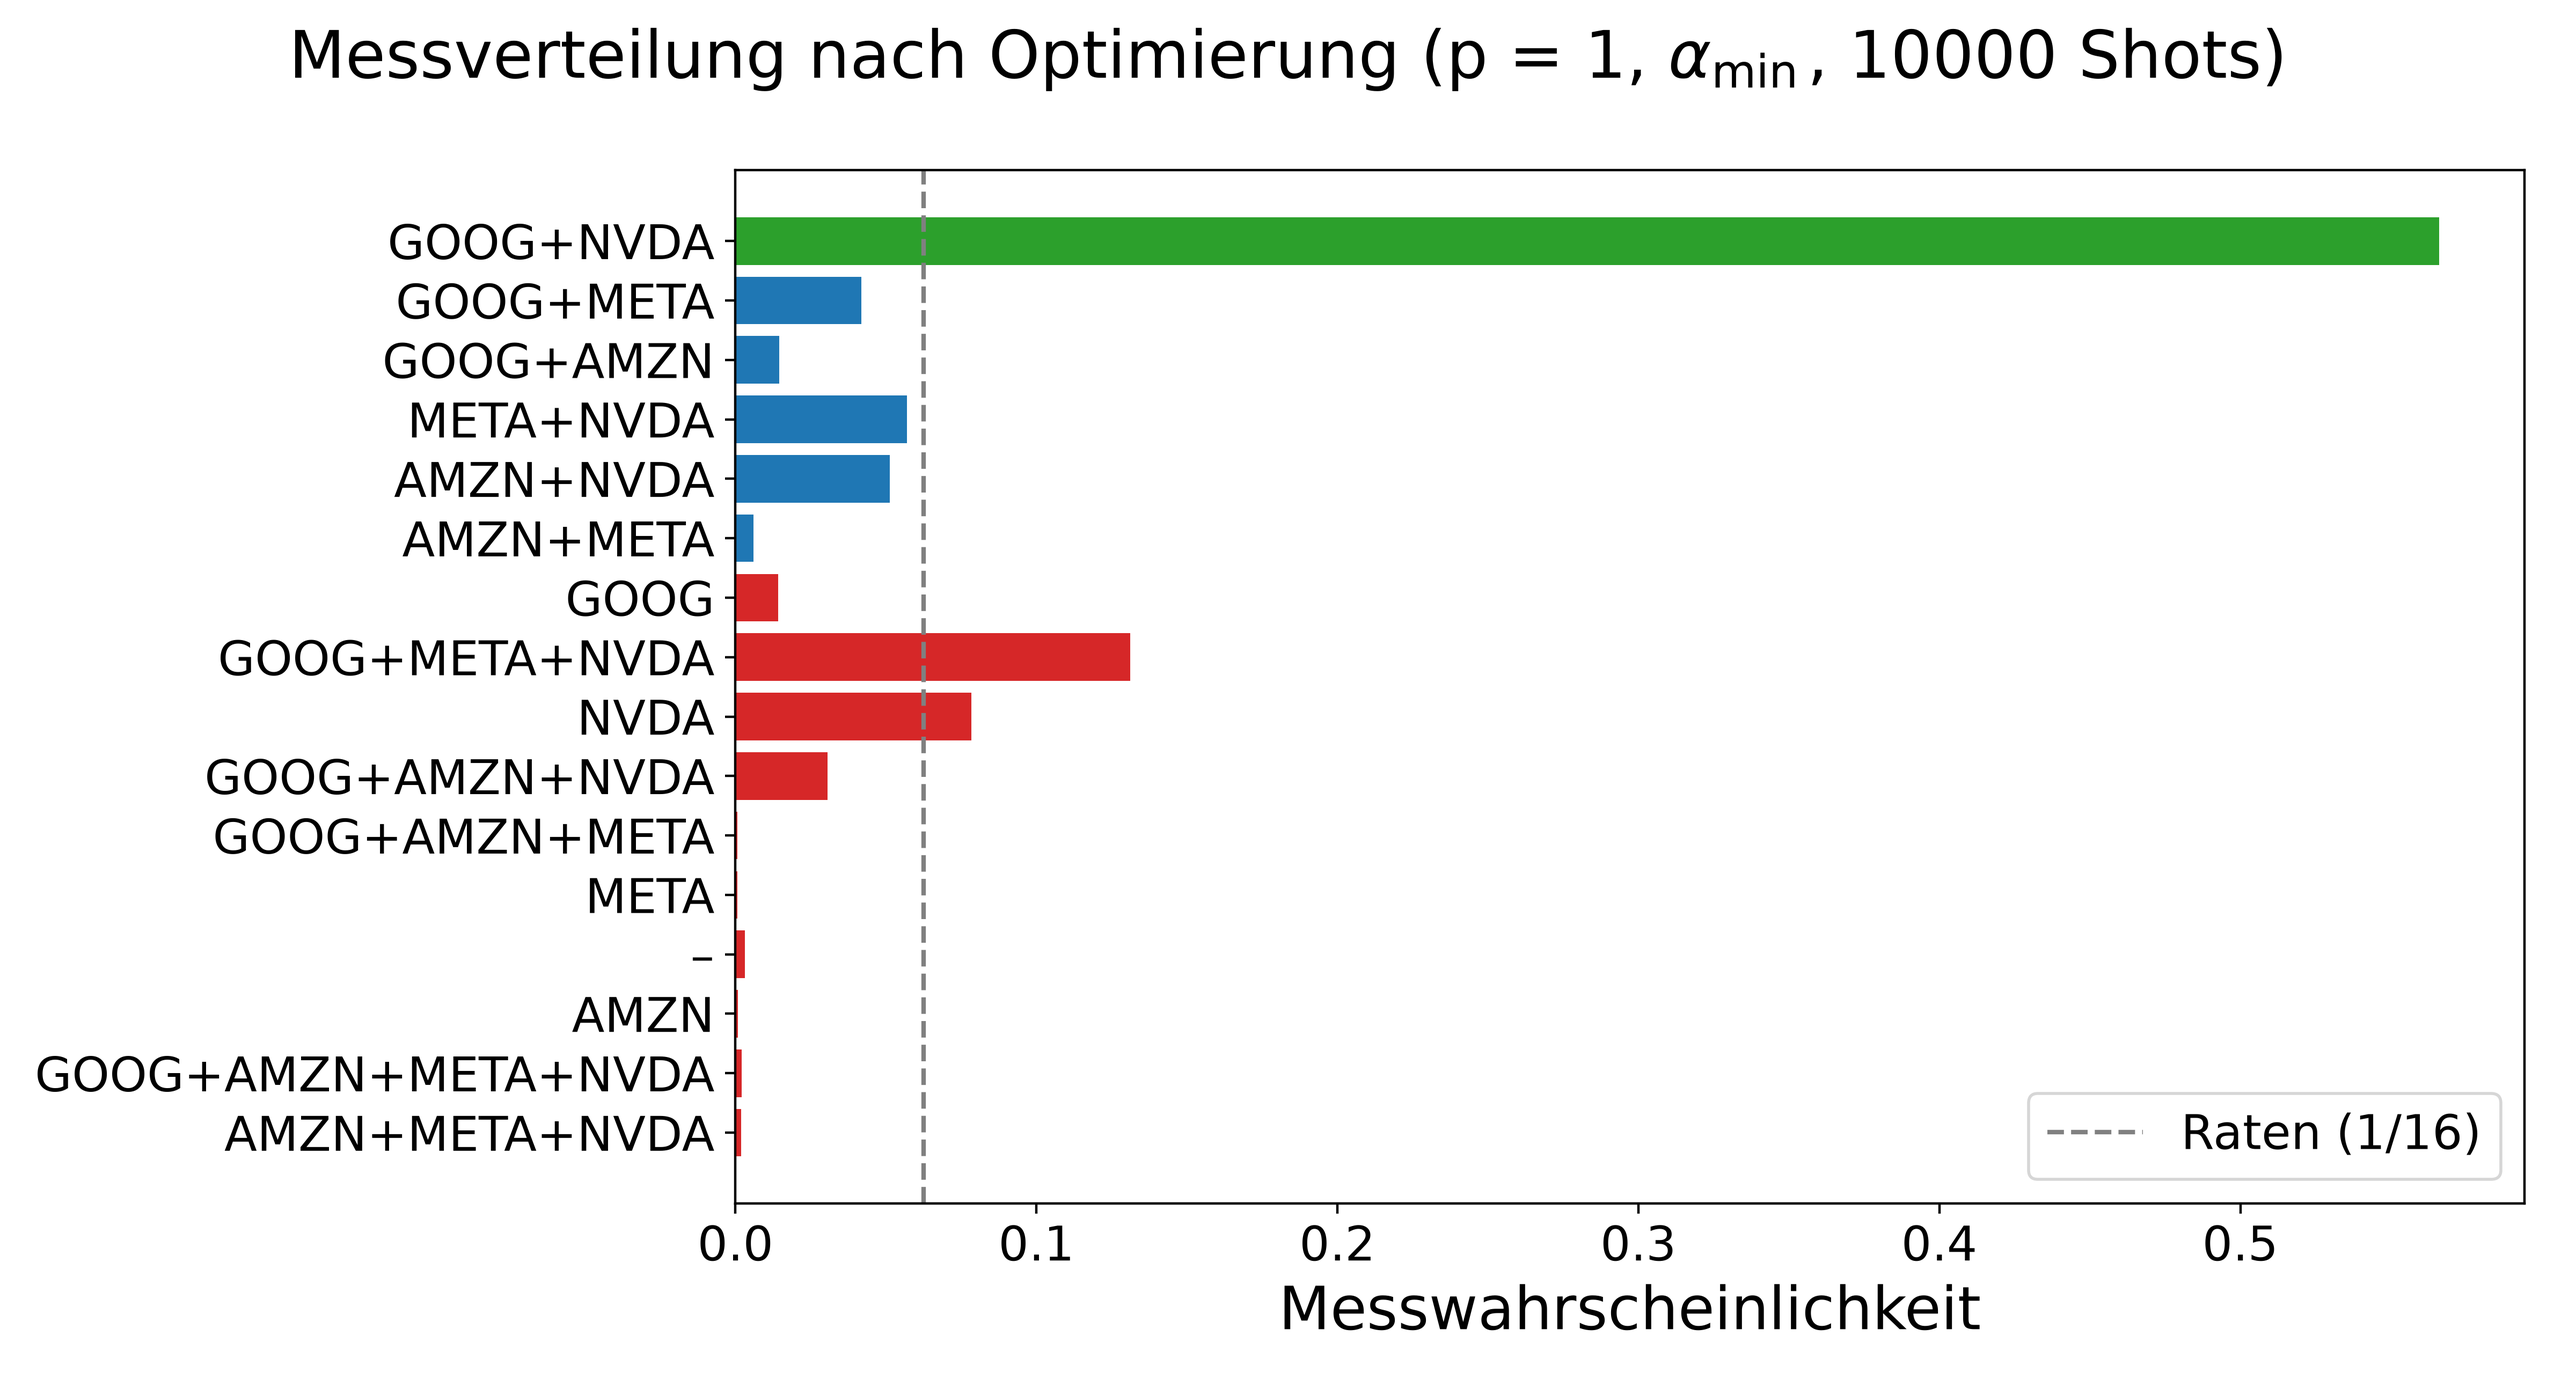
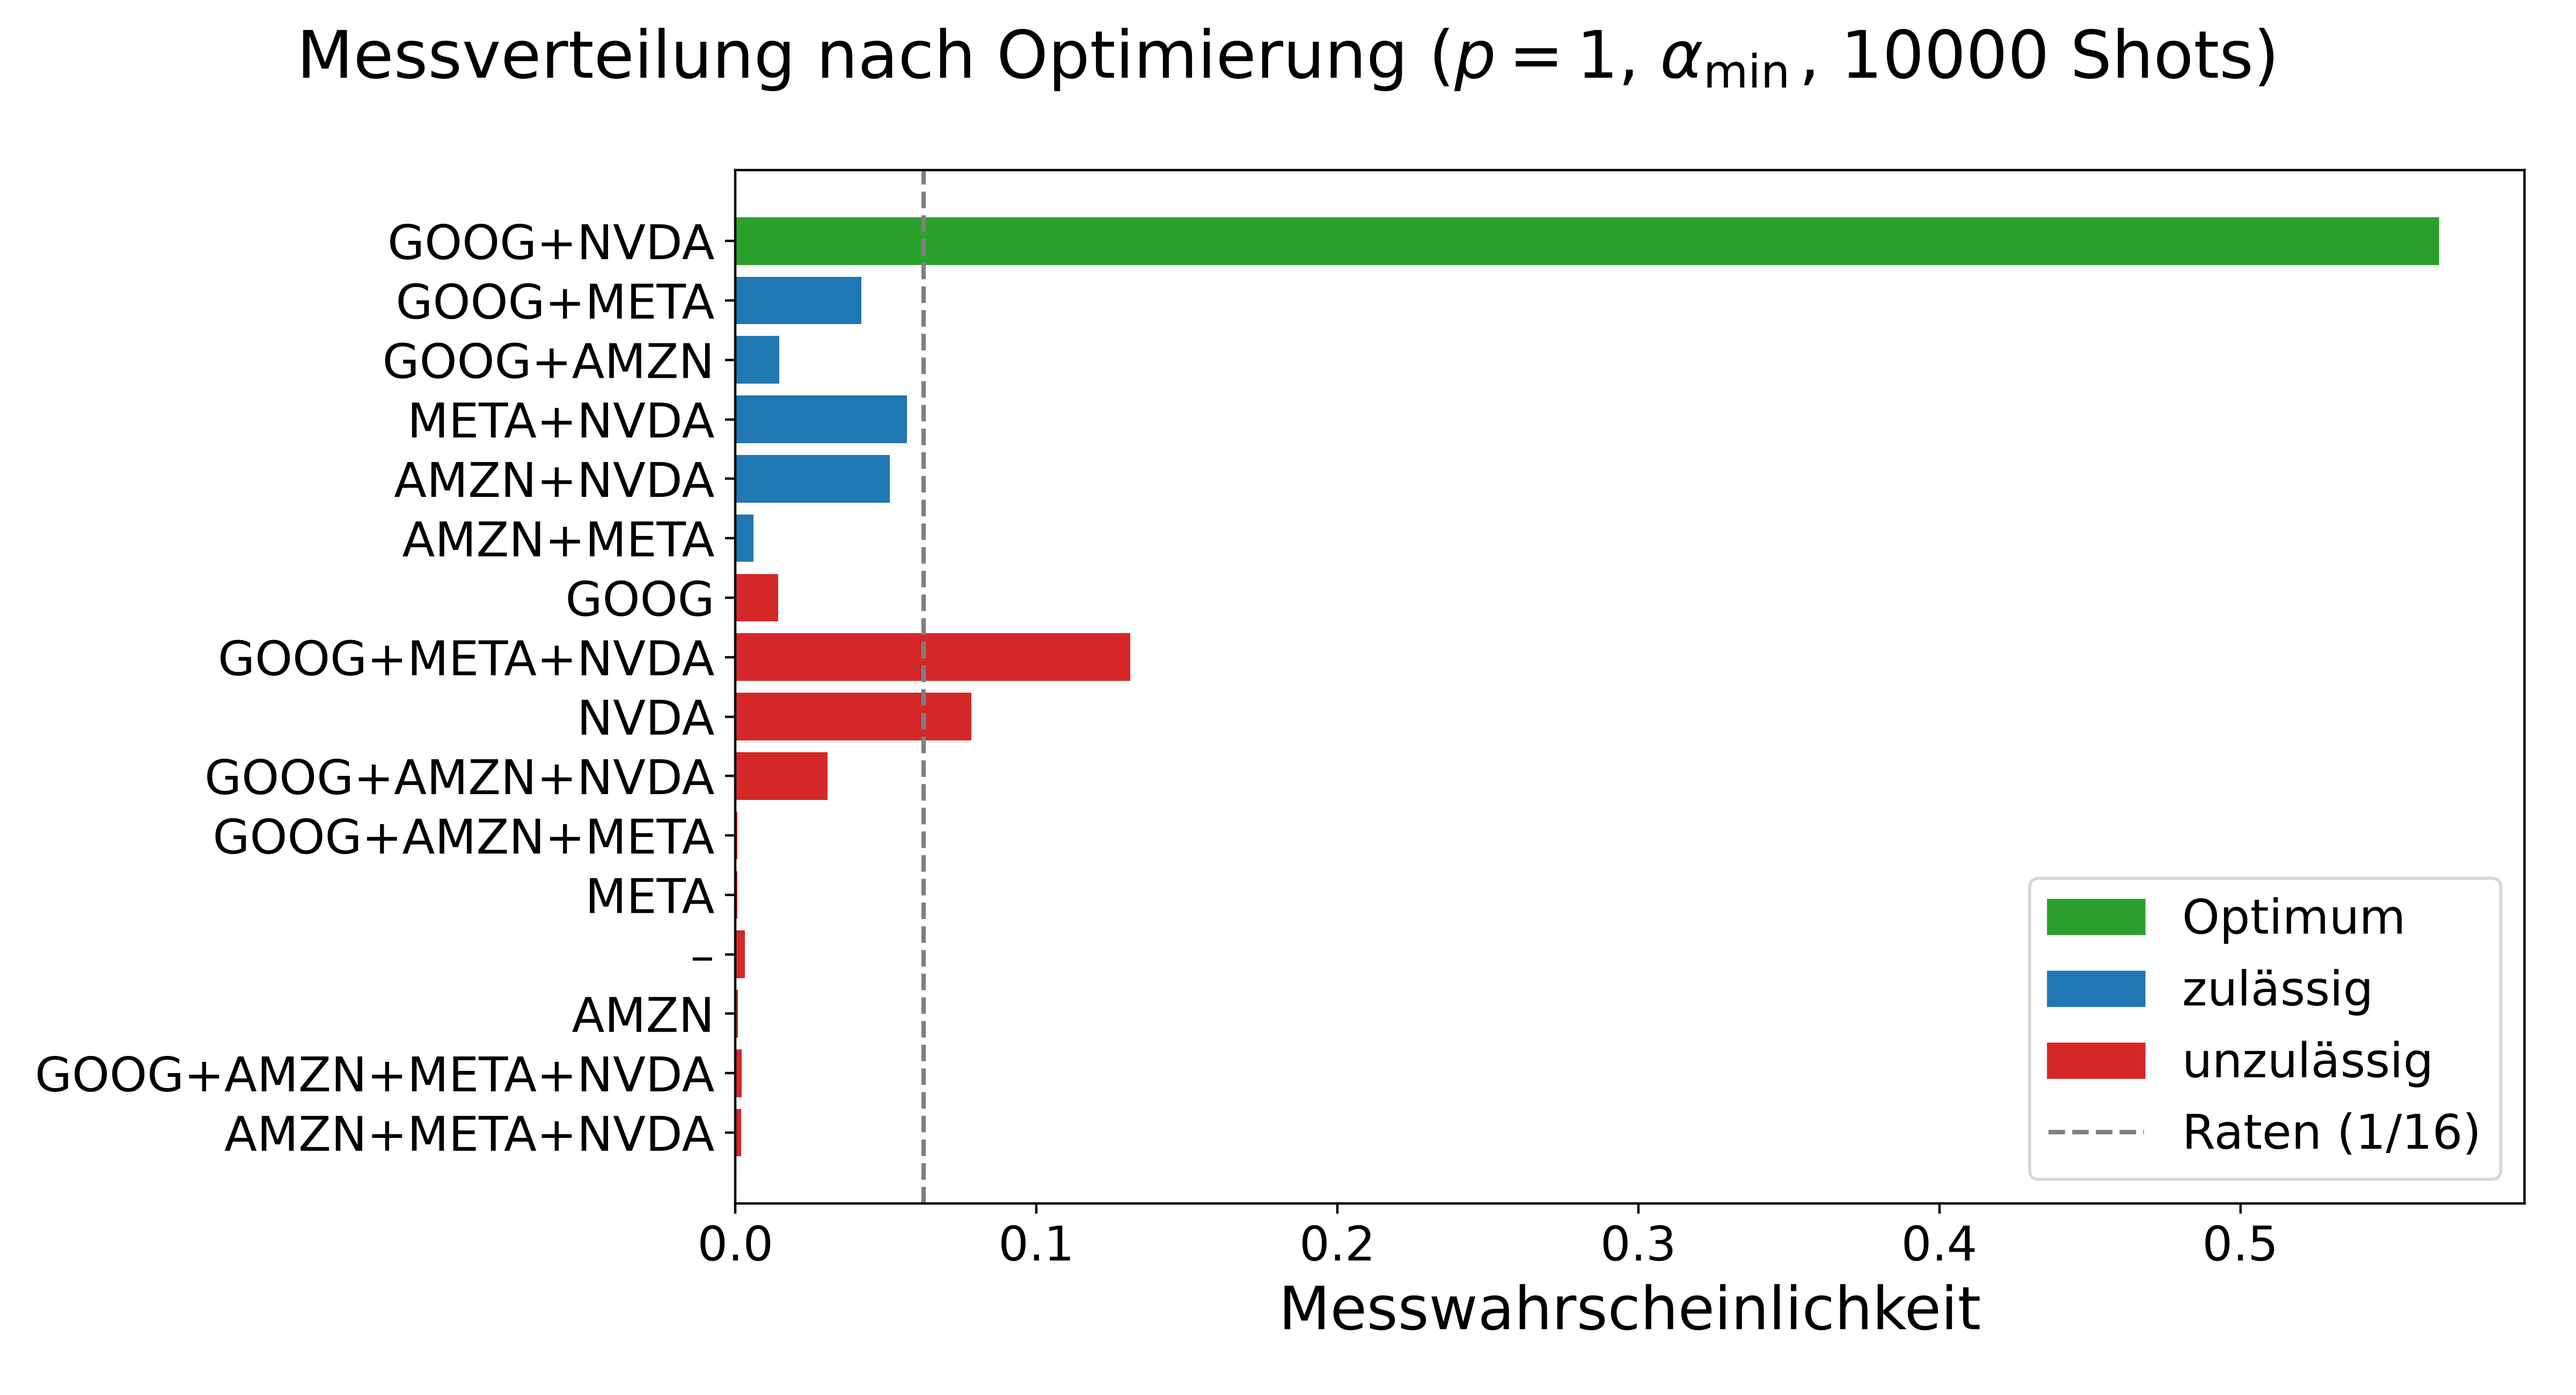
feat: increase maxiter for optimization and add new result files for enhanced portfolio analysis

Changed region(s): [[0.0938, 0.0, 0.9062, 0.0623], [0.7812, 0.6231, 0.9375, 0.81]]

diff --git a/src/02_portfolio_optimization.py b/src/02_portfolio_optimization.py
@@ -13,7 +13,7 @@ import qiskit
 import qiskit_optimization
 import scipy
 from matplotlib import pyplot as plt
-from matplotlib.patches import Rectangle
+from matplotlib.patches import Rectangle, Patch
 from qiskit import QuantumCircuit, QuantumRegister
 from qiskit.circuit import Instruction, Parameter
 from qiskit.circuit.library import qaoa_ansatz
@@ -63,7 +63,7 @@ class Config:
 
     # COBYLA; rhobeg ≈ grid spacing (γ: 16π/799 ≈ 0.063, β: π/40 ≈ 0.079)
     rhobeg: float = 0.1
-    maxiter: int = 1000
+    maxiter: int = 2000
 
     # Simulation
     shots: int = 10_000
@@ -336,8 +336,8 @@ def plot_convergence(history: list[float], reps: int, path: Path) -> None:
     fig, ax = plt.subplots(figsize=(SLIDE_FIG_WIDTH, 5))
     ax.plot(history, marker=".")
     ax.set_xlabel("Iteration (COBYLA)")
-    ax.set_ylabel("⟨C⟩ – erwartete Kosten")
-    ax.set_title(f"Konvergenz der Parameteroptimierung (p = {reps})")
+    ax.set_ylabel(r"$F_p$ – erwartete Kosten")
+    ax.set_title(rf"Konvergenz der Parameteroptimierung $(p = {reps})$")
     fig.tight_layout()
     fig.savefig(path, dpi=400)
     plt.close(fig)
@@ -347,14 +347,14 @@ def plot_landscape(betas, gammas, raster, start, path: Path) -> None:
     """Energy landscape of the p = 1 grid search (backup slide)."""
     fig, ax = plt.subplots(figsize=(SLIDE_FIG_WIDTH, 5))
     mesh = ax.pcolormesh(gammas, betas, raster, shading="nearest", cmap="viridis")
-    fig.colorbar(mesh, ax=ax, label="⟨C⟩ – erwartete Kosten")
+    fig.colorbar(mesh, ax=ax, label=r"$F_p$ – erwartete Kosten")
     ax.plot(start[1], start[0], marker="*", color="red", markersize=14,
             label="Minimum (Raster)")
     ax.axvline(2 * np.pi, color="white", linestyle="--",
-               label="γ = 2π (übliches Suchfenster)")
-    ax.set_xlabel("γ")
-    ax.set_ylabel("β")
-    ax.set_title("Energielandschaft ⟨C⟩(γ, β), p = 1")
+               label=r"$\gamma = 2\pi$ (übliches Suchfenster)")
+    ax.set_xlabel(r"$\gamma$")
+    ax.set_ylabel(r"$\beta$")
+    ax.set_title(r"Energielandschaft $F_p(\boldsymbol{\gamma}, \boldsymbol{\beta})$, $p = 1$")
     ax.legend(loc="upper right", fontsize="small")
     fig.tight_layout()
     fig.savefig(path, dpi=400)
@@ -366,6 +366,9 @@ def plot_distribution(pf: Portfolio, prob: dict, cfg: Config, path: Path) -> Non
     x_opt = pf.feasible[0]
     infeasible = sorted(set(pf.all_x) - set(pf.feasible), key=pf.cost)
     x_sorted = pf.feasible + infeasible
+    categories = {"tab:green": "Optimum",
+                  "tab:blue": "zulässig",
+                  "tab:red": "unzulässig"}
     colors = ["tab:green" if x == x_opt
               else "tab:blue" if sum(x) == pf.budget
     else "tab:red" for x in x_sorted]
@@ -376,13 +379,17 @@ def plot_distribution(pf: Portfolio, prob: dict, cfg: Config, path: Path) -> Non
             color=colors)
     ax.invert_yaxis()  # best portfolio at the top
     ax.axvline(1 / 2 ** pf.n, color="gray", linestyle="--",
-               label=f"Raten (1/{2 ** pf.n})")
+               label=rf"Raten $(1/{2 ** pf.n})$")
     ax.set_xlabel("Messwahrscheinlichkeit")
     # Centred on the figure, not the axes (the long labels shift the axes
     # right). {{\min}}: literal braces; a bare {min} would insert Python's min()
     fig.suptitle(f"Messverteilung nach Optimierung "
-                 rf"(p = {cfg.reps}, $\alpha_{{\min}}$, {cfg.shots} Shots)")
-    ax.legend()
+                 rf"($p = {cfg.reps}$, $\alpha_{{\min}}$, {cfg.shots} Shots)")
+    # Bar colours are not labelled artists, so their legend entries are
+    # added as patches in front of the guessing line
+    handles = [Patch(color=c, label=label) for c, label in categories.items()]
+    ax.legend(handles=handles + ax.get_legend_handles_labels()[0],
+              loc="lower right")
     fig.tight_layout()
     fig.savefig(path, dpi=400)
     plt.close(fig)
@@ -485,7 +492,7 @@ def main(cfg: Config | None = None) -> dict:
     result = qaoa.optimize(initial_point(*start, cfg.reps), cfg)
     betas_opt, gammas_opt = result.x[:cfg.reps], result.x[cfg.reps:]
     print(f"Optimiert: γ* = {np.round(gammas_opt, 4)}, β* = {np.round(betas_opt, 4)}, "
-          f"<C> = {result.fun:.4f} nach {len(qaoa.history)} Auswertungen")
+          f"F_C = {result.fun:.4f} nach {len(qaoa.history)} Auswertungen")
 
     # 3. Measuring with the optimal parameters
     prob = sample(qaoa, result.x, pf, sampler, cfg.shots)
